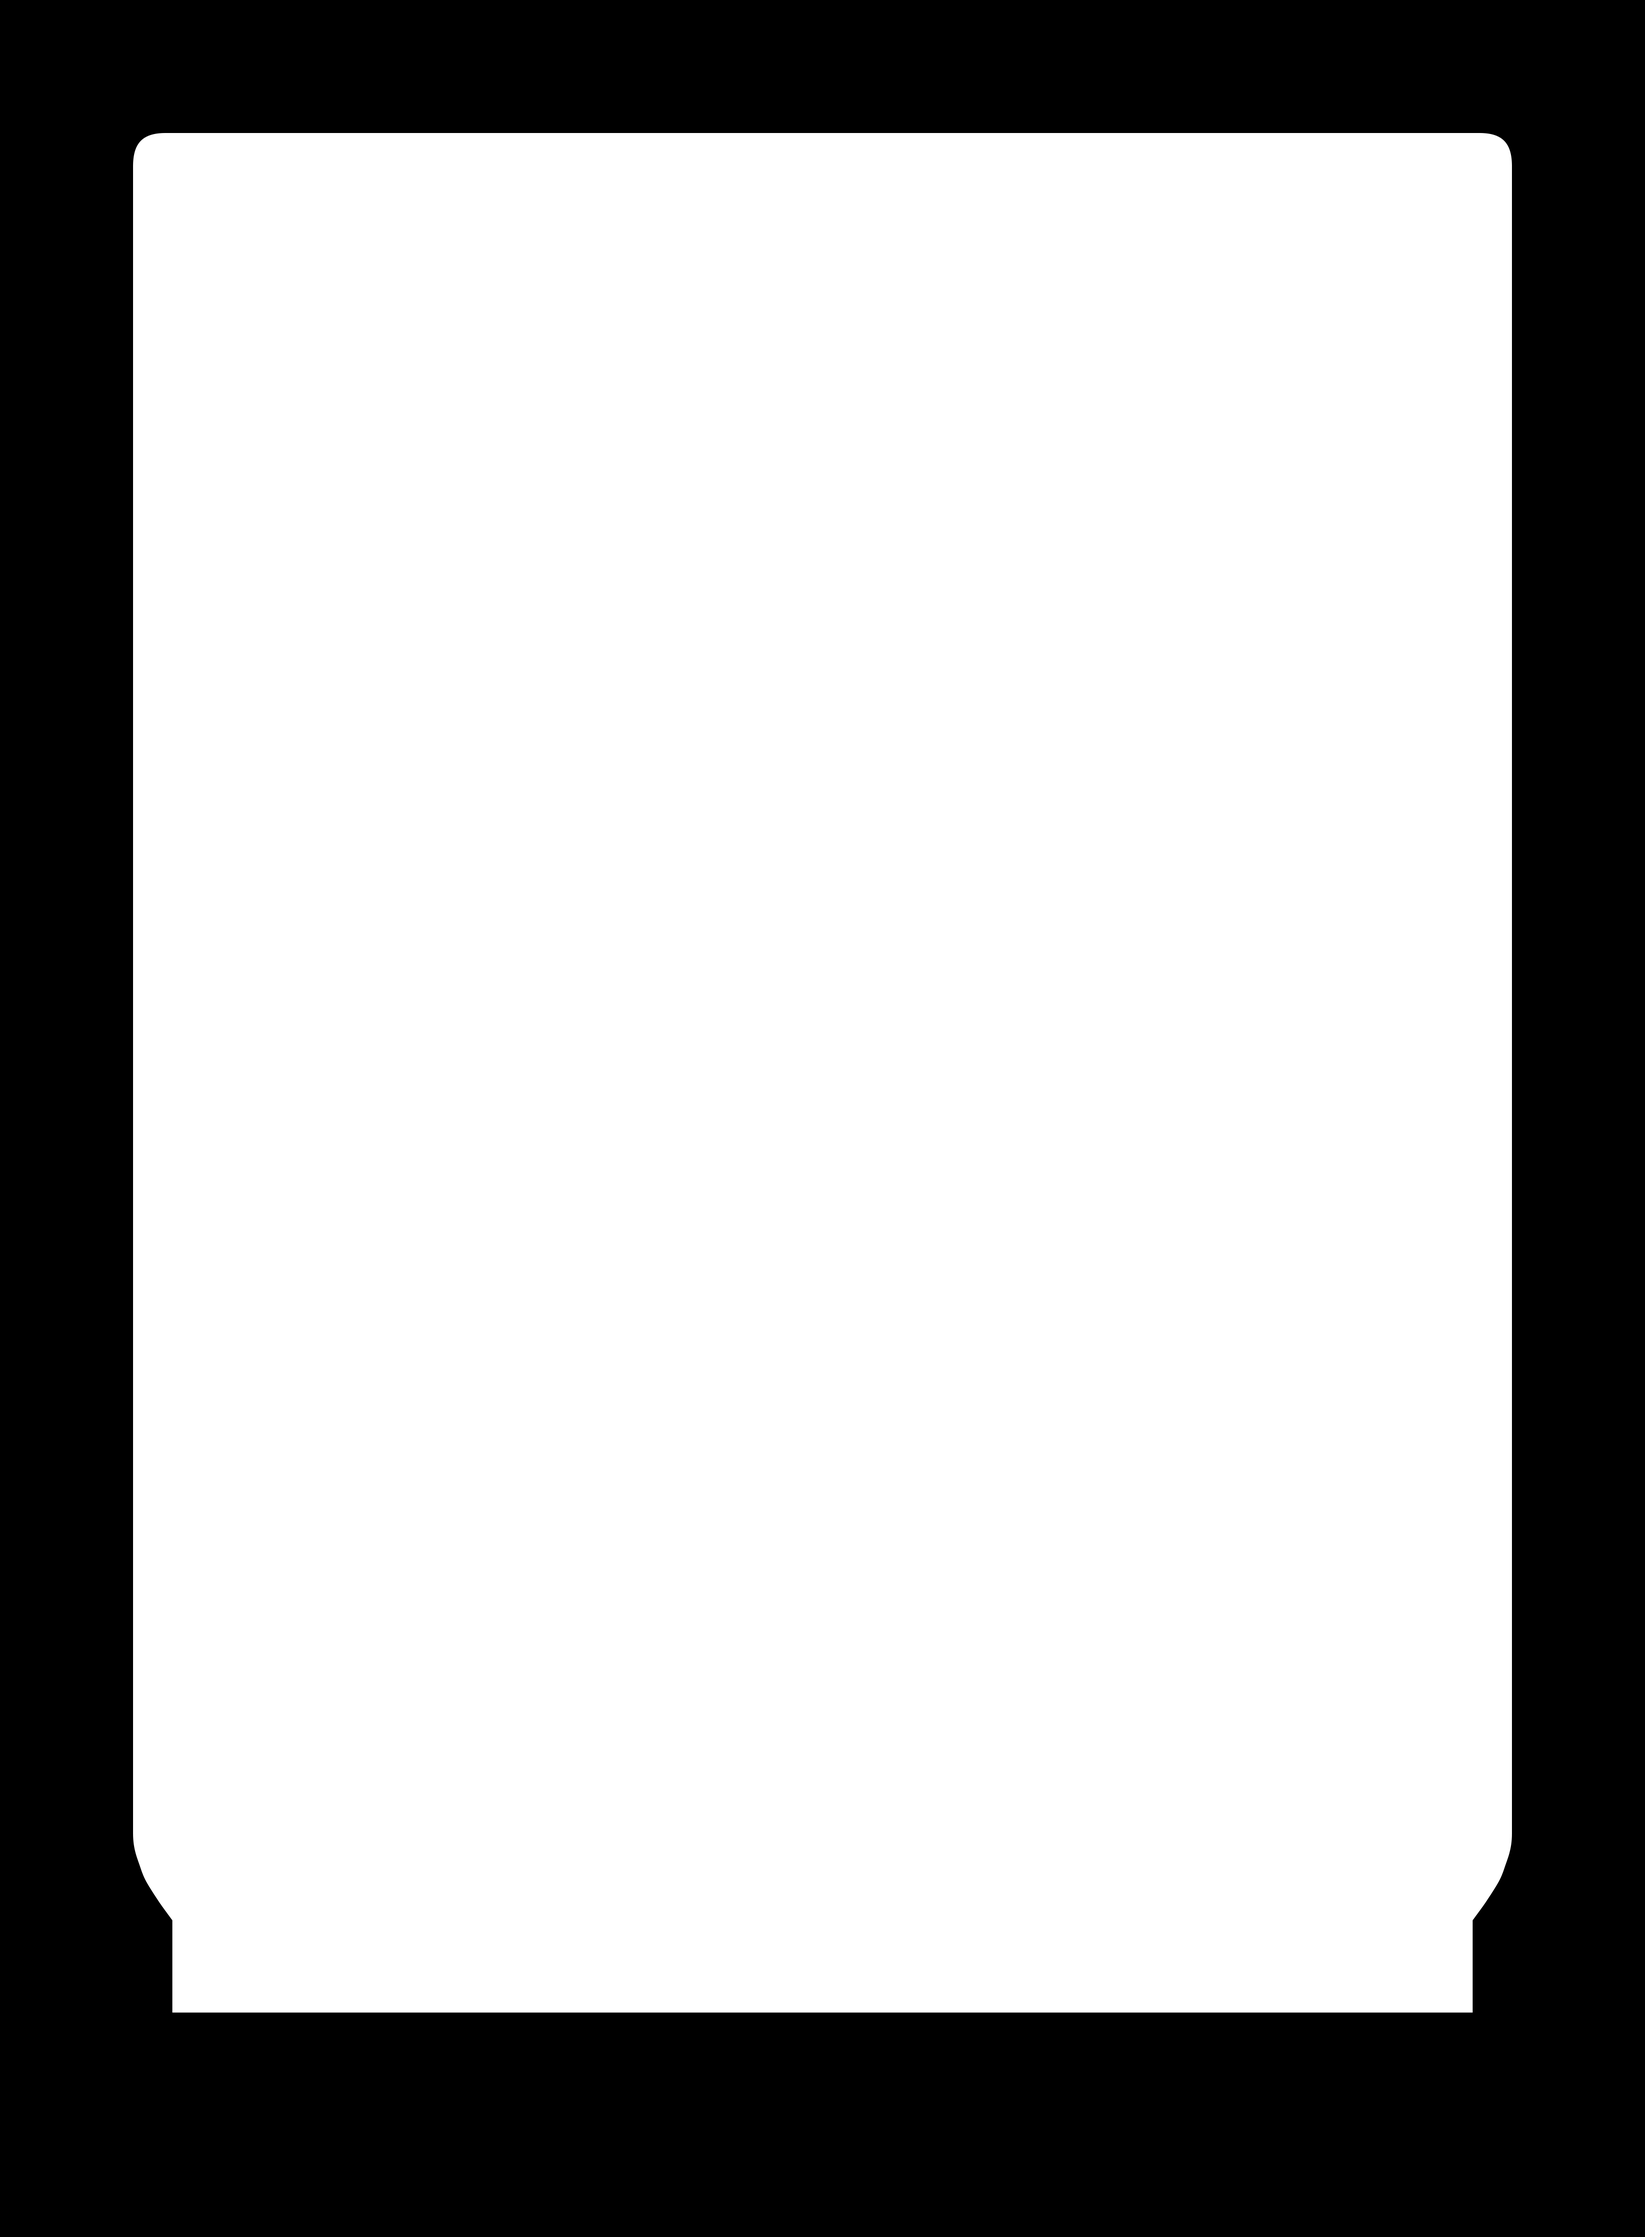
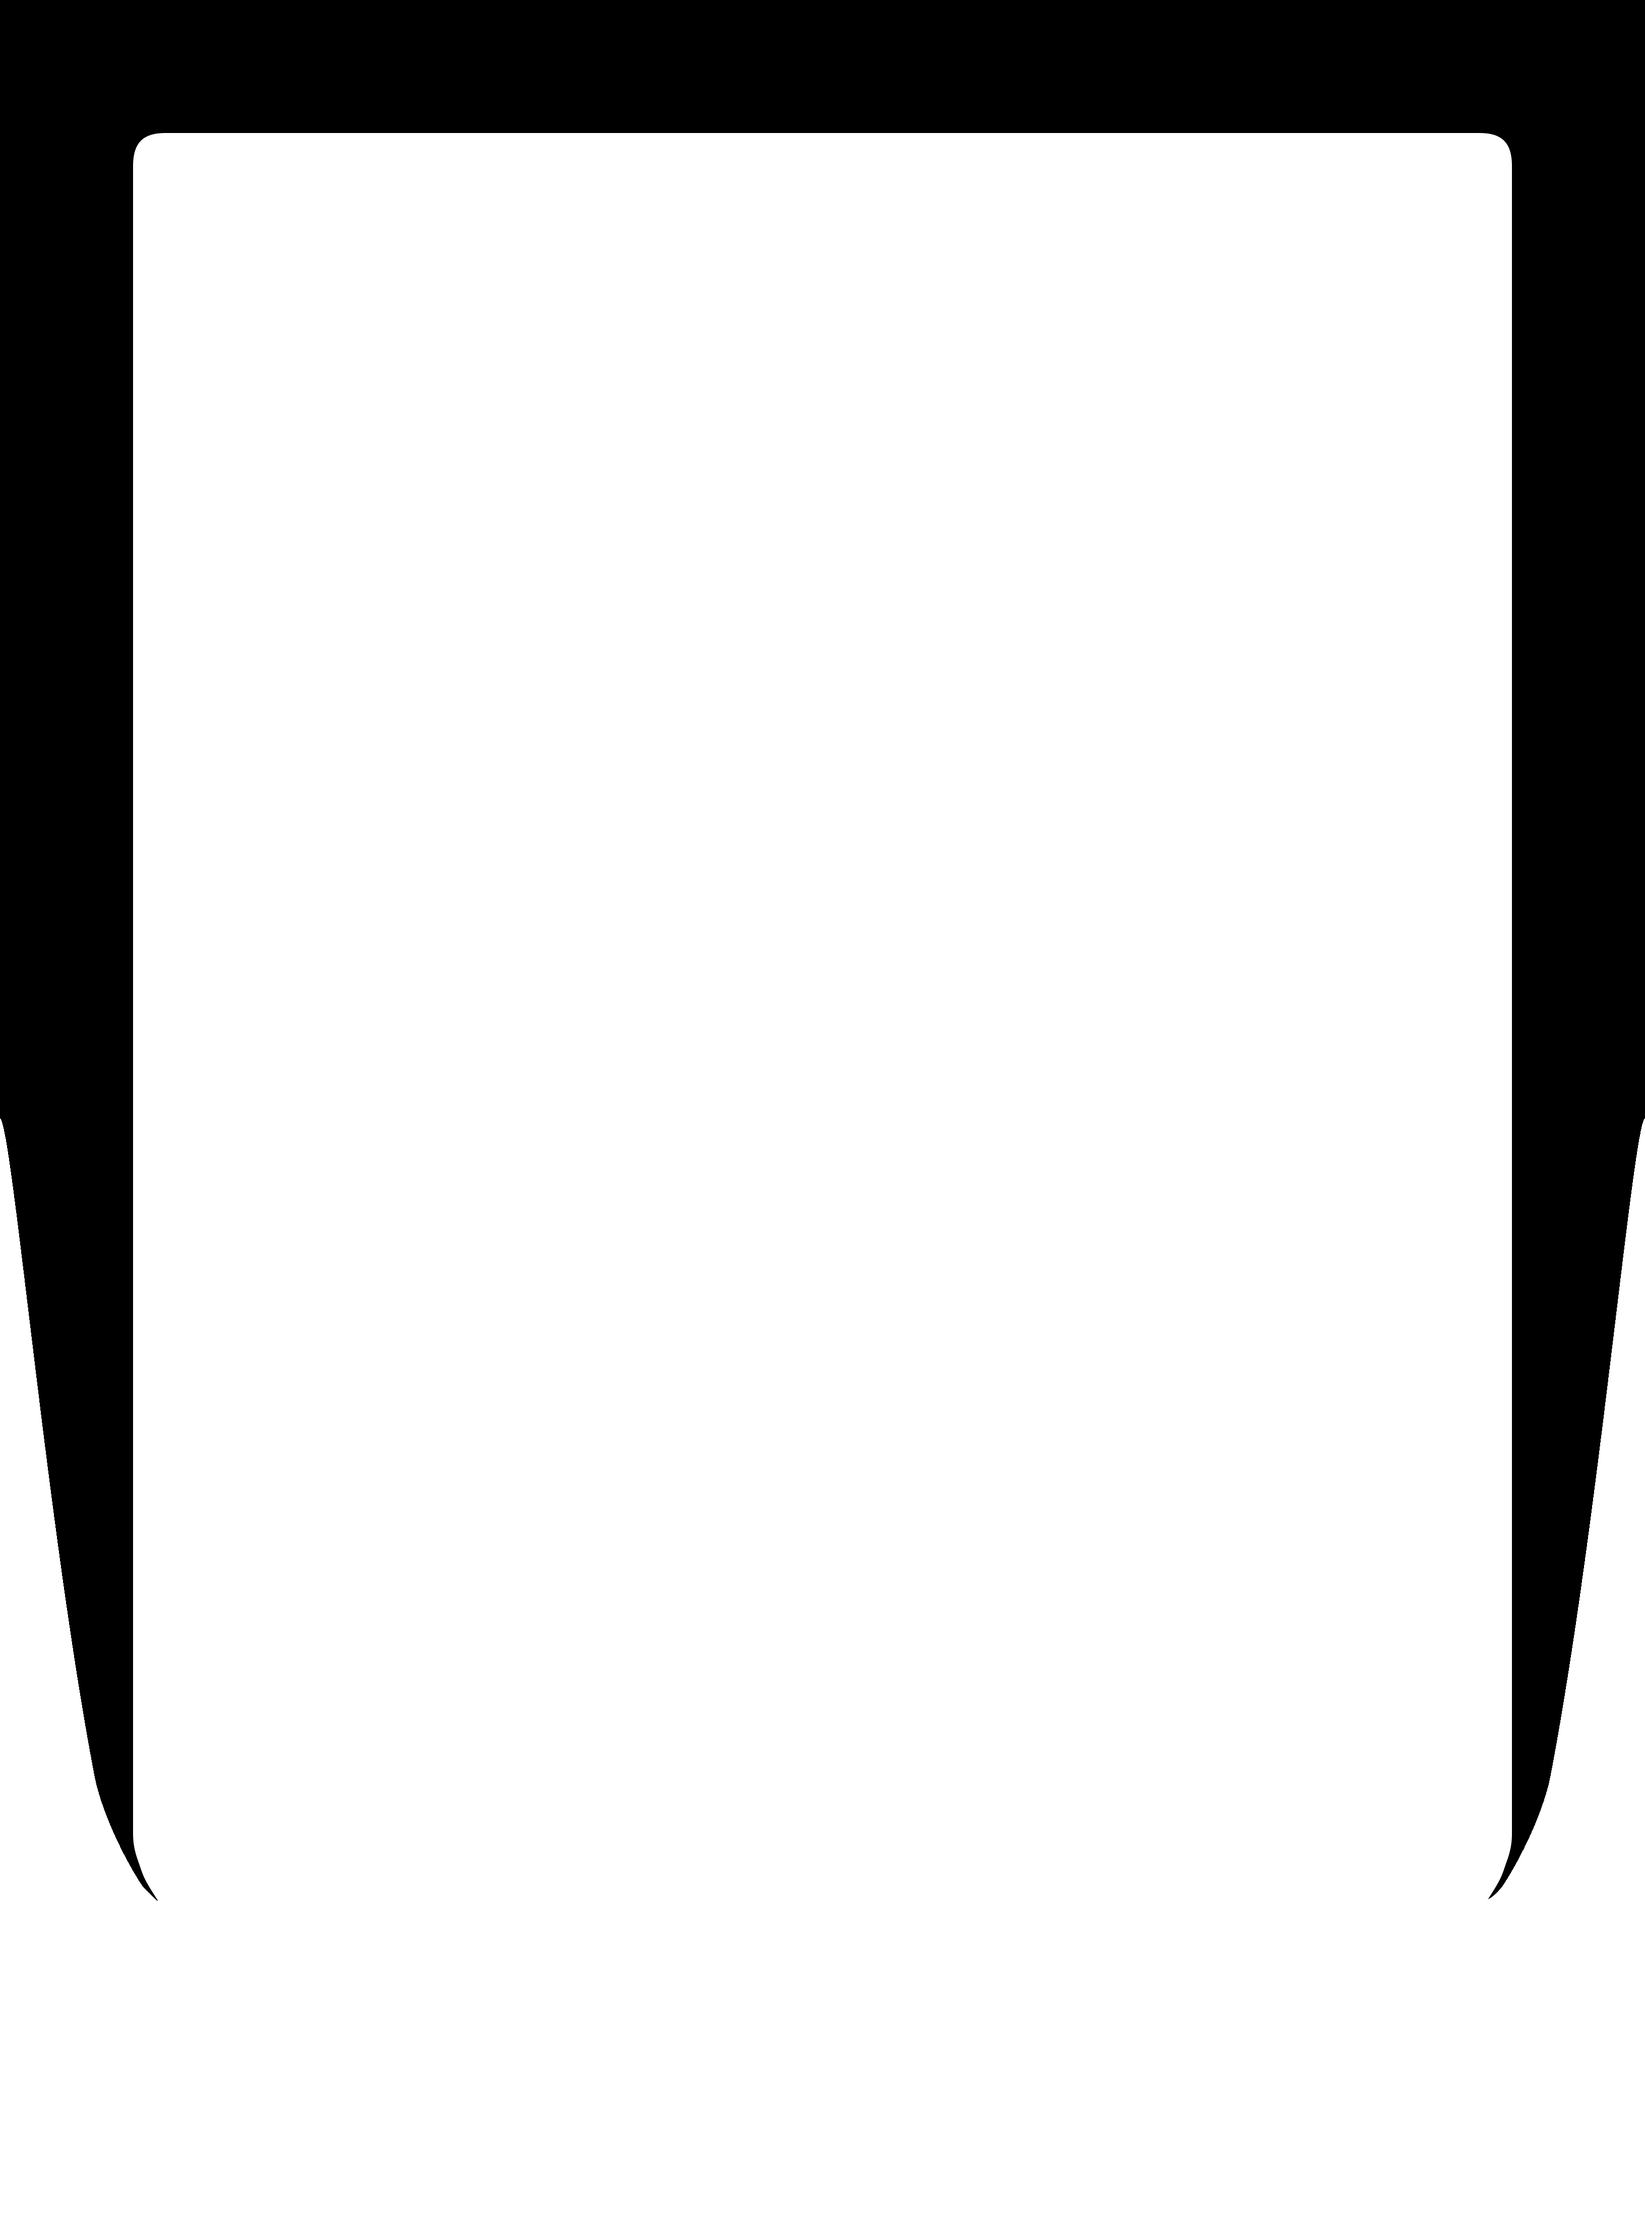
feat(m15): color only part of the border by default
`border` now stops short of the collector strip, so recoloring the border no
longer repaints the strip the collector line sits on. `borderFull` keeps the
old full-ring coverage, selected by a new "Color Entire Border" toggle that
defaults off.

The toggle lives in the shared `defaultSettings`, so frames deriving from M15
inherit it — they already inherit `regularLayoutConfig.masks`, and with it both
border masks, so Extended Art is wired up by the same change.

Tests assert the masks survive a `FrameSchema` parse: `LayoutMasksSchema` is a
plain object schema, so an unknown mask key is dropped rather than rejected and
the toggle would silently do nothing.

Changed region(s): [[0.0, 0.4973, 1.0, 1.0]]

diff --git a/packages/frame-m15/src/index.test.ts b/packages/frame-m15/src/index.test.ts
@@ -21,6 +21,28 @@ describe("M15 frame", () => {
   it("declares at least one layout", () => {
     expect(Object.keys(m15Frame.config.layouts).length).toBeGreaterThan(0);
   });
+
+  // `LayoutMasksSchema` is a plain object schema, so a mask key it doesn't
+  // know is dropped on parse rather than rejected — the frame would keep
+  // type-checking and the toggle below would silently do nothing.
+  it("keeps both border masks on the normal layout through a parse", () => {
+    const parsed = FrameSchema.parse(m15Frame);
+    const masks = parsed.config.layouts.normal?.masks;
+    expect(masks?.border).toBeDefined();
+    expect(masks?.borderFull).toBeDefined();
+    expect(masks?.borderFull).not.toBe(masks?.border);
+  });
+
+  // The toggle is what selects `borderFull`; without it the mask is unreachable.
+  it("offers the full-border toggle, defaulting to the partial mask", () => {
+    // toMatchObject, not toEqual: the assertion is about the toggle's type,
+    // label and default — not a ban on further optional fields like helperText.
+    expect(m15Frame.templateSettings.useFullBorder).toMatchObject({
+      type: "boolean",
+      label: "Color Entire Border",
+      defaultValue: false,
+    });
+  });
 });
 
 describe("frame.meta.json", () => {

diff --git a/packages/frame-extended/src/index.test.ts b/packages/frame-extended/src/index.test.ts
@@ -21,6 +21,19 @@ describe("Extended Art frame", () => {
   it("declares at least one layout", () => {
     expect(Object.keys(extendedFrame.config.layouts).length).toBeGreaterThan(0);
   });
+
+  // Inherited, not copied: the layout spreads `regularLayoutConfig.masks`, and
+  // the toggle rides along in M15's `defaultSettings`. Both halves have to be
+  // present or the control renders and does nothing — so assert them together.
+  it("inherits both border masks and the toggle that selects them", () => {
+    const masks = FrameSchema.parse(extendedFrame).config.layouts.normal?.masks;
+    expect(masks?.border).toBeDefined();
+    expect(masks?.borderFull).toBeDefined();
+    expect(masks?.borderFull).not.toBe(masks?.border);
+    expect(extendedFrame.templateSettings.useFullBorder?.defaultValue).toBe(
+      false,
+    );
+  });
 });
 
 describe("frame.meta.json", () => {

diff --git a/packages/frame-m15/src/index.ts b/packages/frame-m15/src/index.ts
@@ -25,6 +25,20 @@ export const defaultSettings = {
     label: "Use Nyx Border For Enchantments",
     defaultValue: true,
   },
+  /**
+   * Off by default: `masks.border` colors only the region outside the
+   * collector strip, and turning this on swaps in `masks.borderFull` to color
+   * the whole ring. Lives in the shared defaults so frames deriving from M15
+   * inherit it — they inherit `regularLayoutConfig.masks`, and with it both
+   * border masks, so the toggle is wired up for them too.
+   */
+  useFullBorder: {
+    type: "boolean",
+    label: "Color Entire Border",
+    helperText:
+      "Extends the border color across the collector strip, which is left uncolored by default.",
+    defaultValue: false,
+  },
 } as const satisfies TemplateSettingsConfig;
 
 export const sagaSettings = {

diff --git a/packages/frame-m15/src/regular/masks/index.ts b/packages/frame-m15/src/regular/masks/index.ts
@@ -1,4 +1,5 @@
 export { default as border } from "./border.png";
+export { default as borderFull } from "./borderFull.png";
 export { default as frame } from "./frame.png";
 export { default as pinlines } from "./pinline.png";
 export { default as rules } from "./rules.png";
